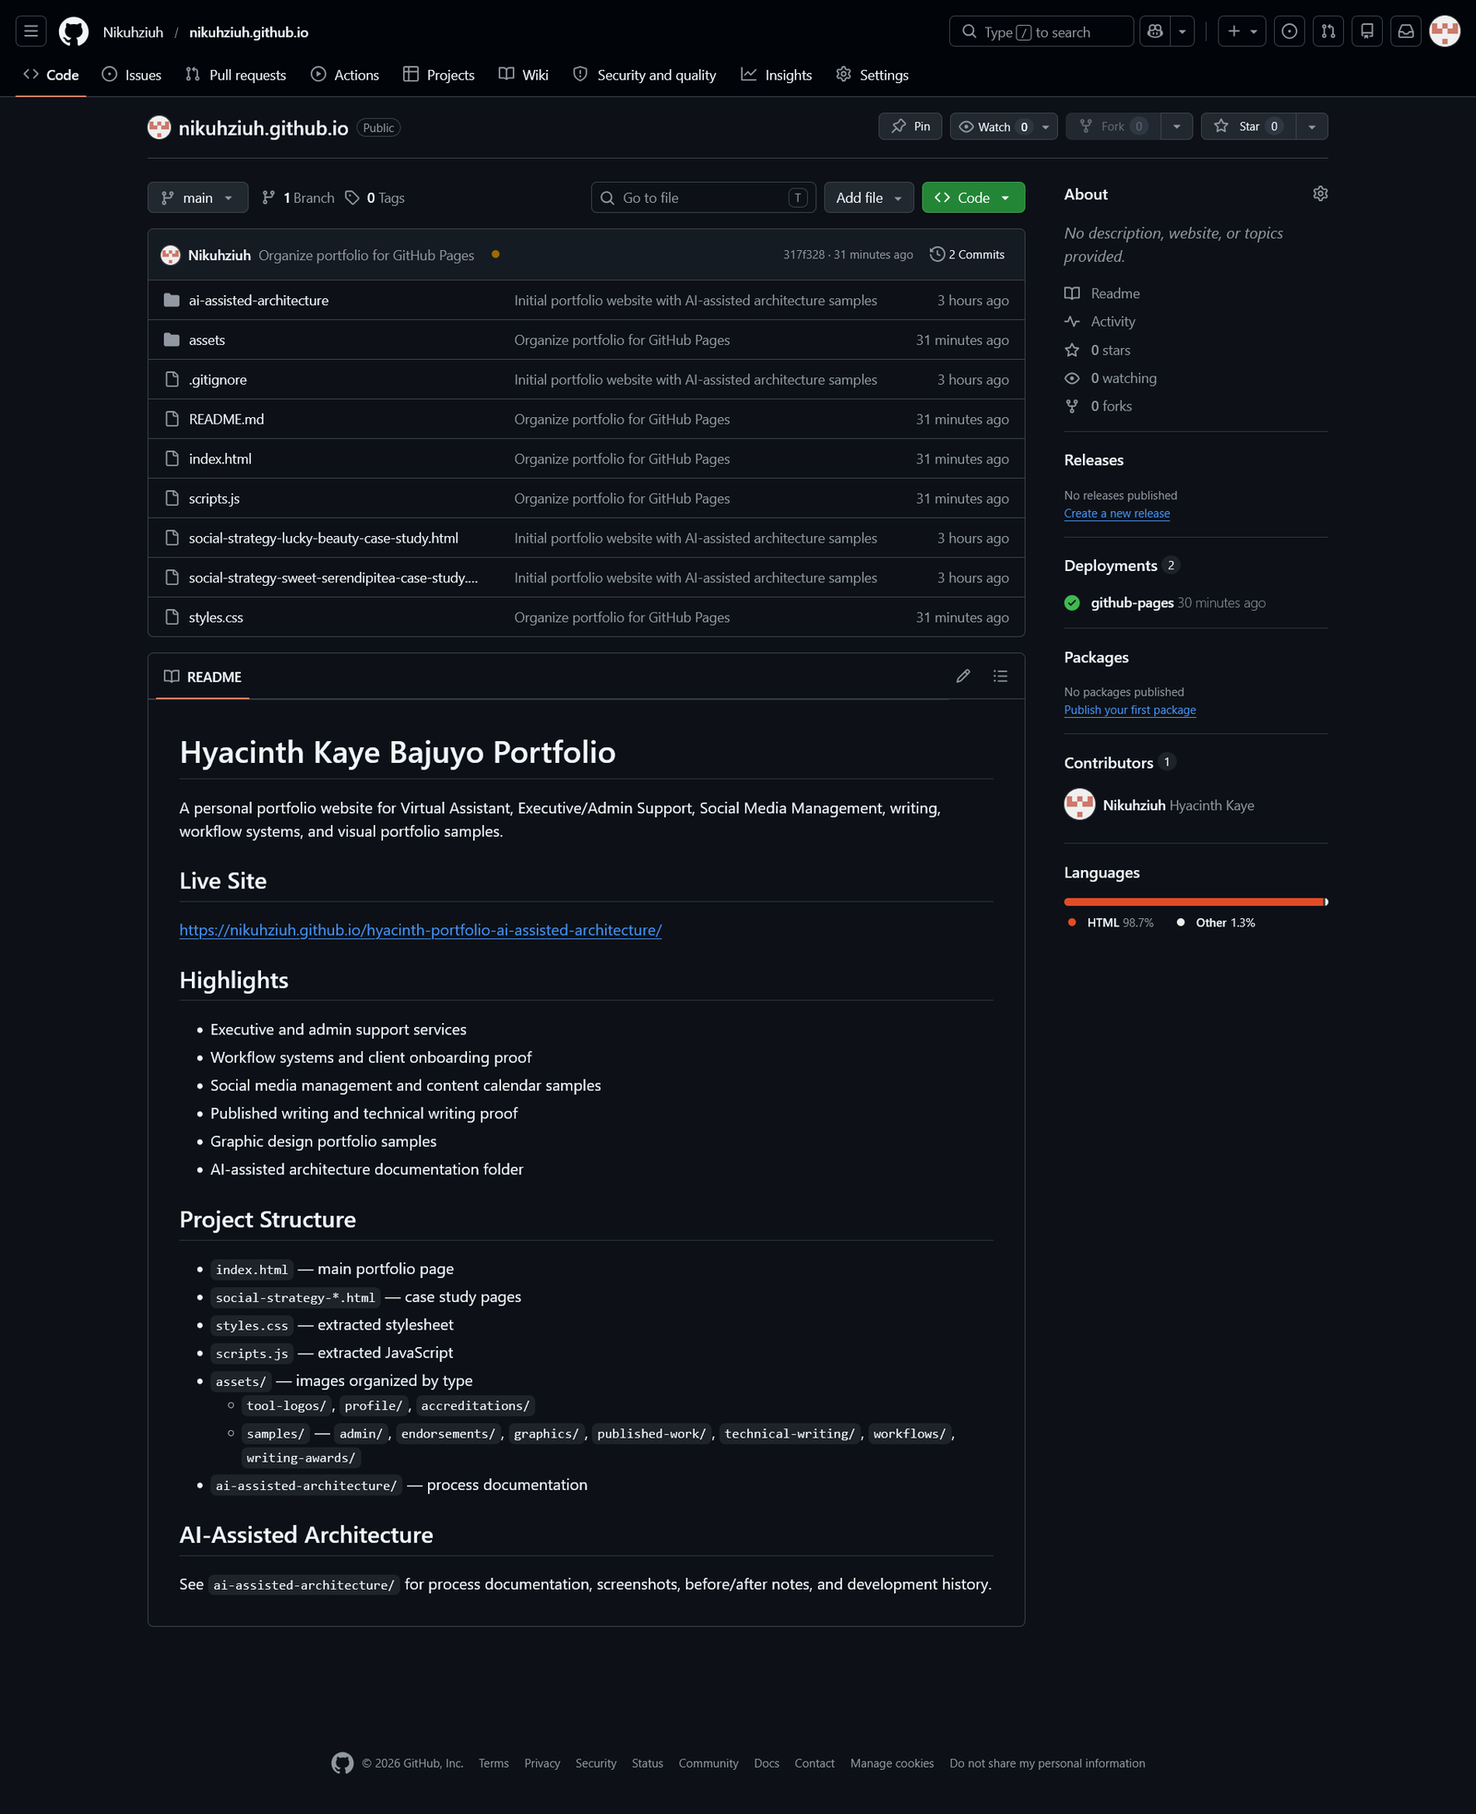
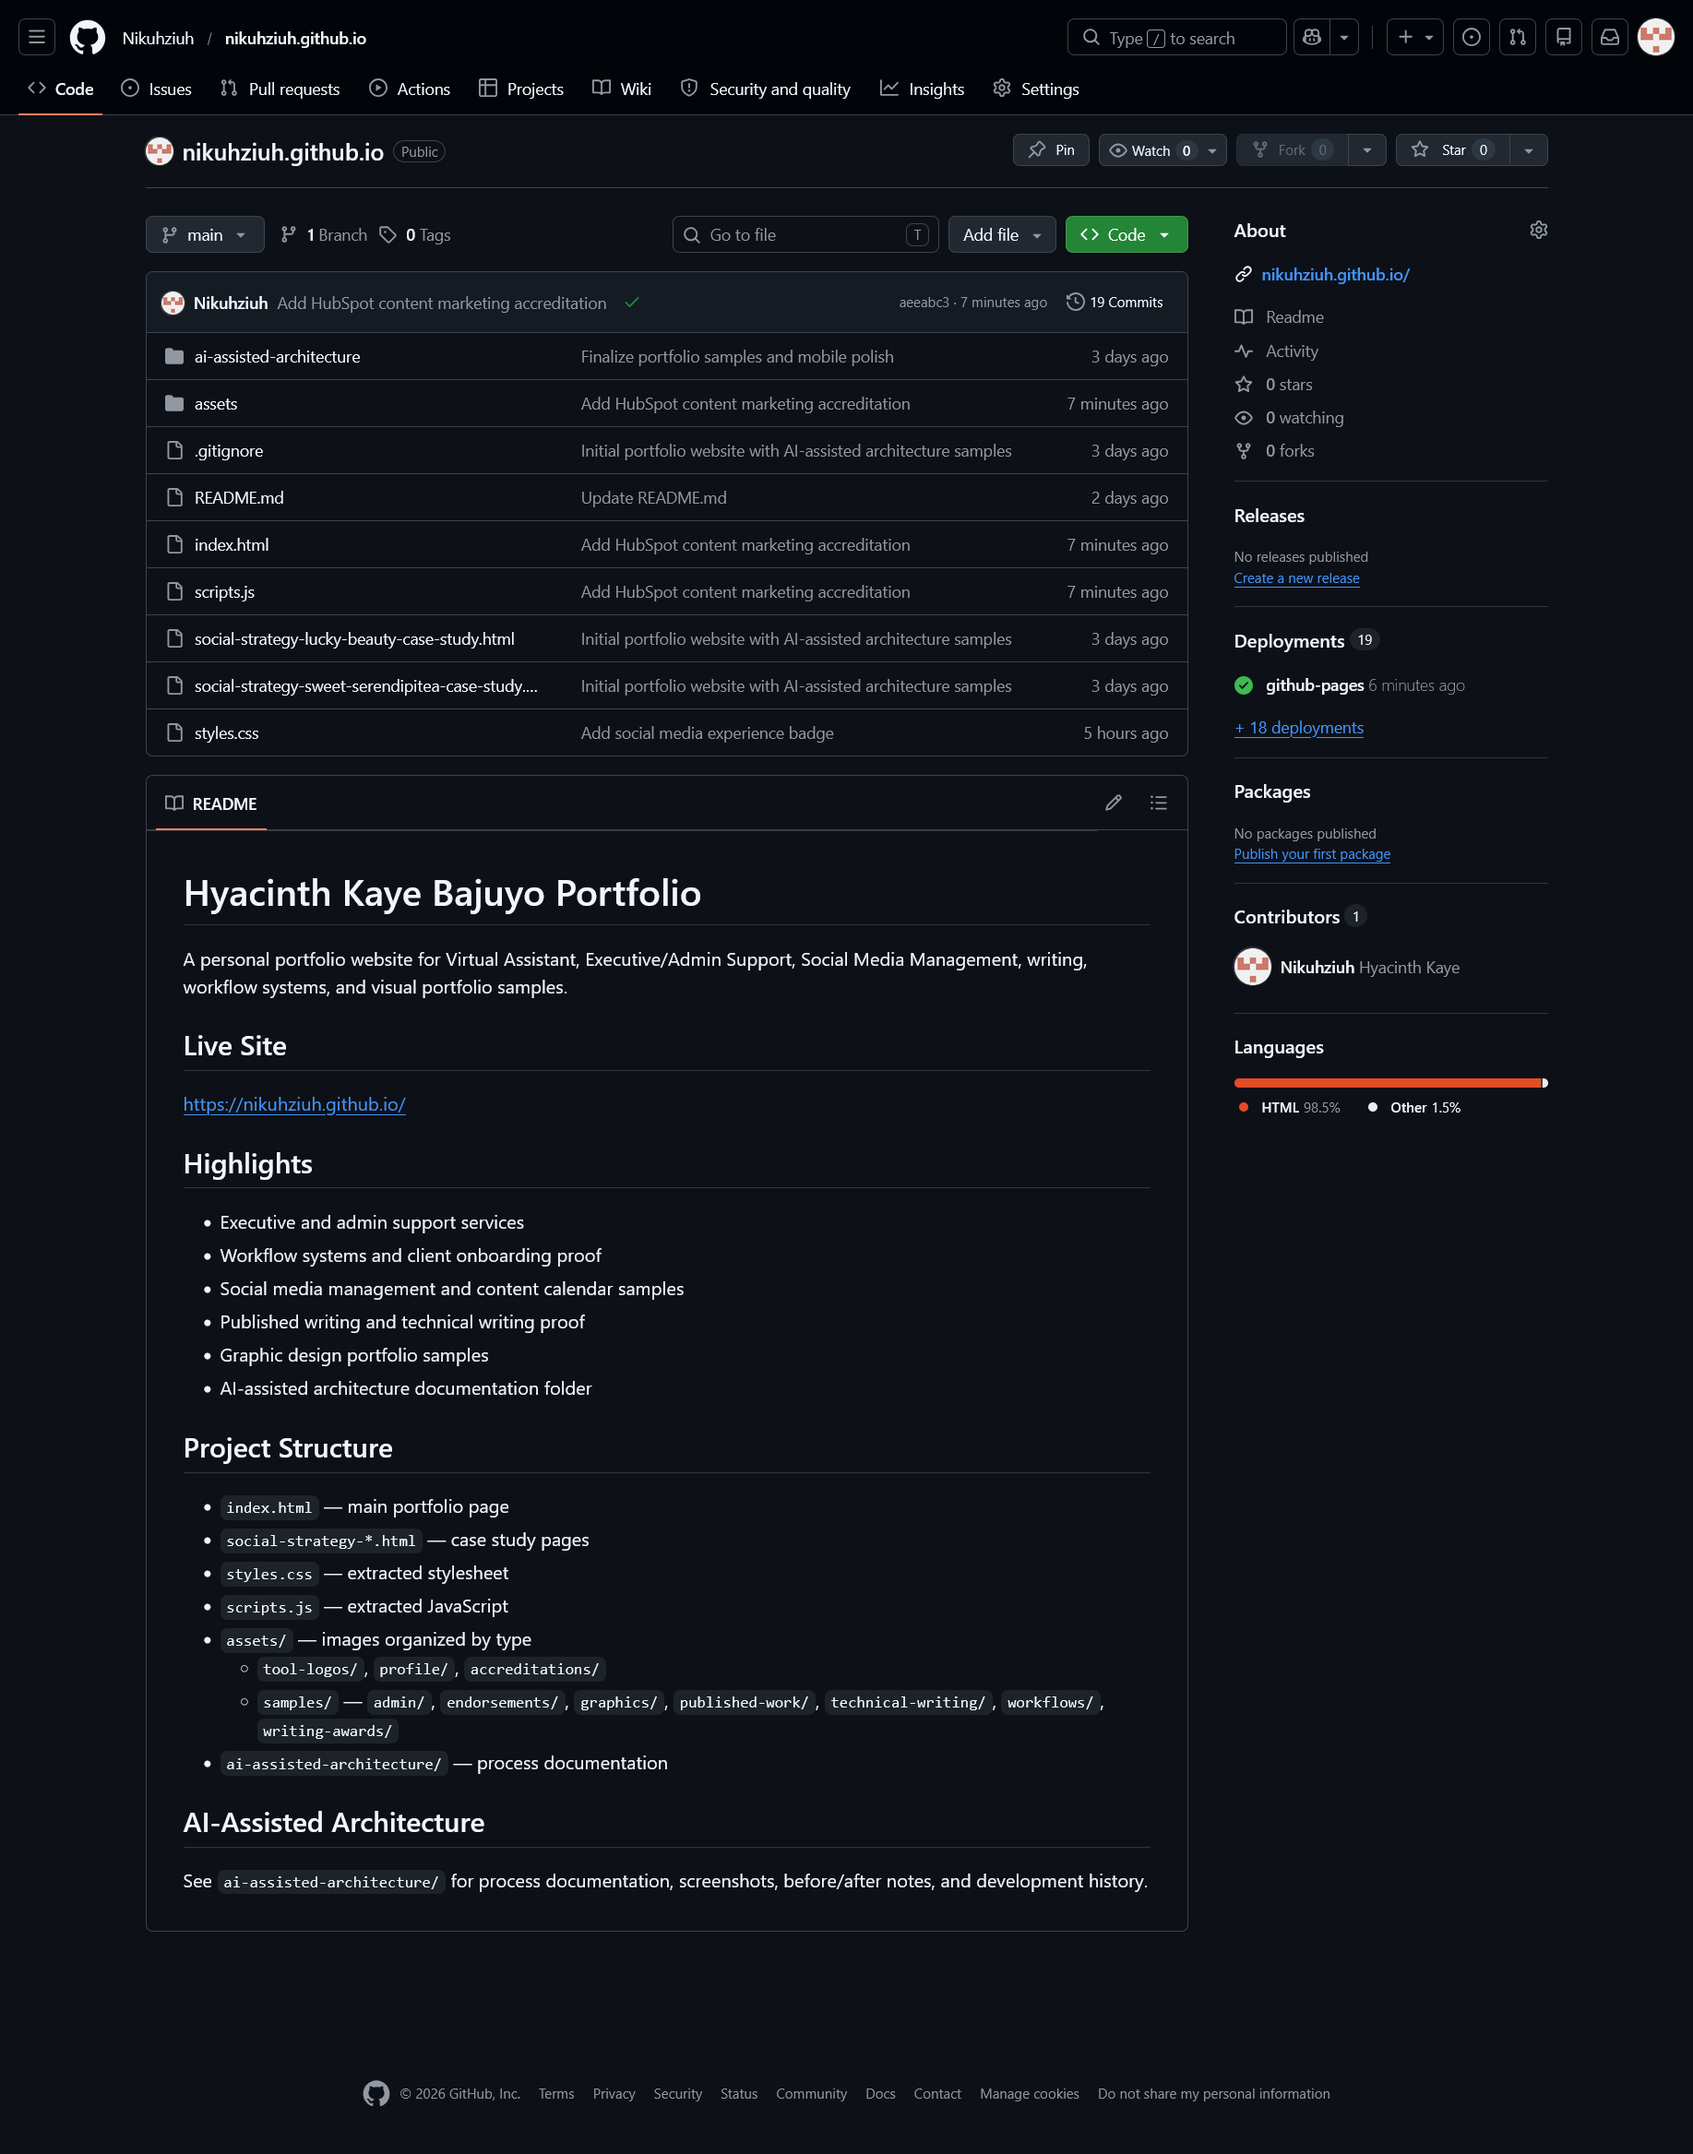
Update AI architecture repo proof

diff --git a/scripts.js b/scripts.js
@@ -1316,7 +1316,8 @@ window.addEventListener('DOMContentLoaded', () => {
     {
       label: 'GitHub Repository Structure',
       src: 'assets/samples/ai-architecture/ai-architecture-06-github-repository.png',
-      caption: 'Final organized repository with separated code and asset folders.'
+      caption: 'Final organized repository with separated code and asset folders.',
+      repoUrl: 'https://github.com/Nikuhziuh/nikuhziuh.github.io'
     },
     {
       label: 'Revision Direction Log',
@@ -1731,6 +1732,7 @@ window.addEventListener('DOMContentLoaded', () => {
     return `${header('AI-Assisted Architecture', 'Portfolio Website Build', 'A documented workflow showing how the site moved from AI-generated draft to blueprint-guided, GitHub-ready implementation.', '13 proof assets')}
       <div class="phase2-gallery-shell">
         ${renderZoomablePageViewer(pages, Math.min(current, pages.length - 1), 'moveAIArchitectureInline')}
+        ${aiArchitectureProofs[current]?.repoUrl ? `<div class="ai-architecture-actions"><a class="ai-architecture-repo-pill" href="${safeText(aiArchitectureProofs[current].repoUrl)}" target="_blank" rel="noopener noreferrer" aria-label="View GitHub repository">View My Repo</a></div>` : ''}
         ${current === 3 || current === 5 ? `<div class="ai-architecture-code-panel"><div><h4>HTML Code Excerpt</h4><p>Representative code from the live Sample Works card. The full source is stored in the repository.</p></div><pre><code>${safeText(aiArchitectureCodeExcerpt)}</code></pre></div>` : ''}
       </div>`;
   }

diff --git a/styles.css b/styles.css
@@ -1436,6 +1436,38 @@ body {
   font: 500 13px/1.55 Consolas, "Courier New", monospace;
 }
 
+.ai-architecture-actions {
+  display: flex;
+  justify-content: center;
+  width: 100%;
+  margin-top: 16px;
+}
+
+.ai-architecture-repo-pill {
+  display: inline-flex;
+  align-items: center;
+  justify-content: center;
+  min-height: 44px;
+  padding: 0 22px;
+  border: 1px solid rgba(217, 124, 124, .34);
+  border-radius: 999px;
+  background: linear-gradient(135deg, #c95f63, #9c2d2f);
+  color: #fff;
+  font-family: var(--font-sans);
+  font-size: 13px;
+  font-weight: 700;
+  letter-spacing: .06em;
+  text-decoration: none;
+  text-transform: uppercase;
+  box-shadow: 0 8px 24px rgba(122, 30, 30, .20);
+  transition: transform .2s ease, box-shadow .2s ease;
+}
+
+.ai-architecture-repo-pill:hover {
+  transform: translateY(-2px);
+  box-shadow: 0 12px 30px rgba(122, 30, 30, .28);
+}
+
 .ai-architecture-viewer {
   position: fixed;
   inset: 0;
